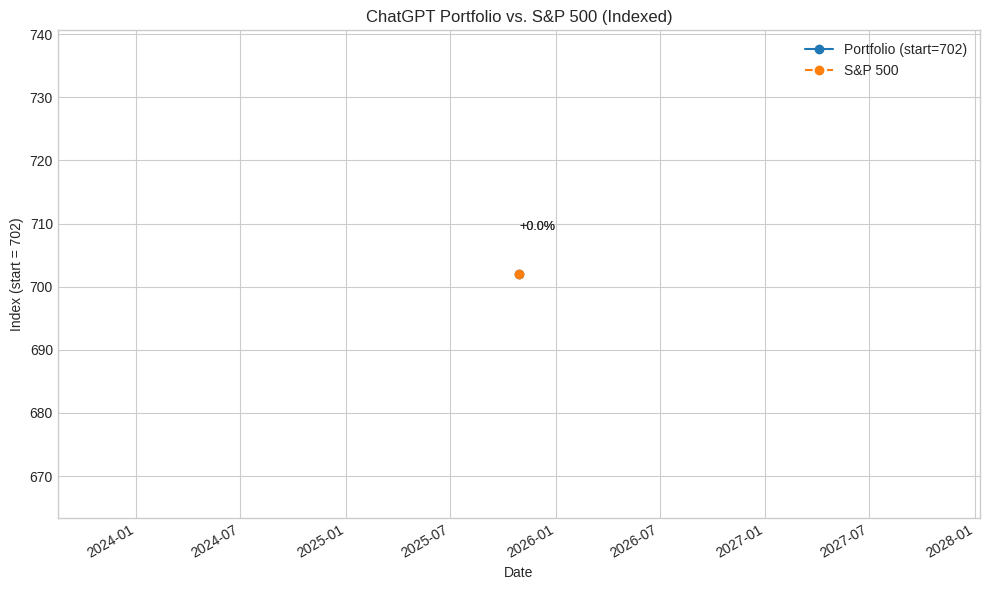
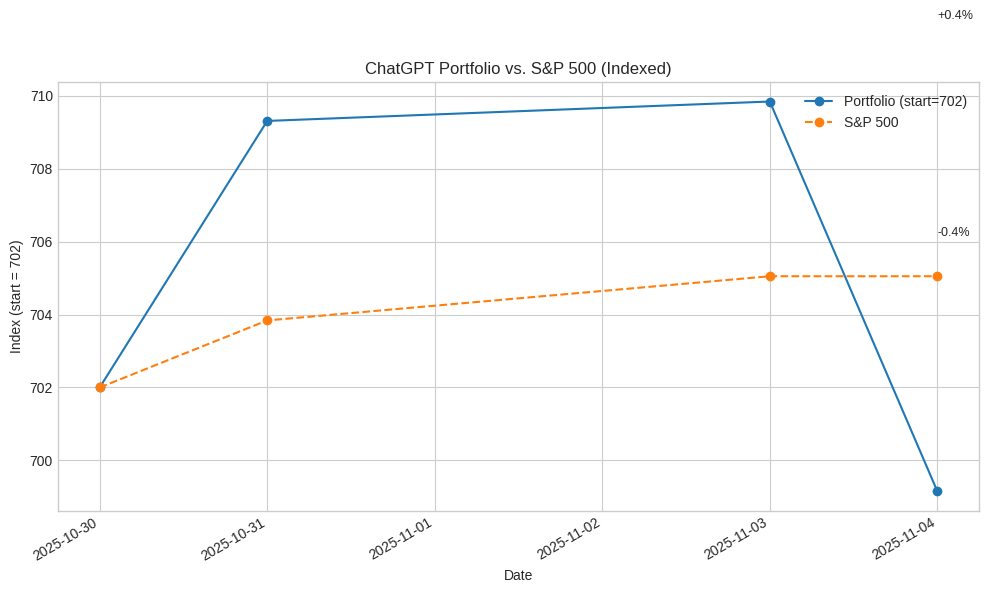
update

diff --git a/Start Your Own/prompt.md b/Start Your Own/prompt.md
@@ -1,25 +1,24 @@
 Here is your update for today. You can make any changes you see fit (if necessary). You do not have to ask permissions for any changes, as you have full control.
-prices and updates for 2025-10-30
-MIST closing price: 1.84
-MIST volume for today: $1,503,000.0
-percent change from the day before: +0.55%
-ATRA closing price: 14.06
-ATRA volume for today: $37,700.0
-percent change from the day before: -7.56%
-IWO closing price: 330.87
-IWO volume for today: $417,800.0
-percent change from the day before: -0.28%
-XBI closing price: 110.96
-XBI volume for today: $8,712,800.0
-percent change from the day before: -0.93%
-SPY closing price: 687.39
-SPY volume for today: $85,657,100.0
-percent change from the day before: +0.05%
-IWM closing price: 246.84
-IWM volume for today: $56,235,300.0
-percent change from the day before: -0.85%
-Latest Gemini Equity: $686.18
+prices and updates for 2025-11-06
+MIST closing price: 1.80
+MIST volume for today: $1,642,000.0
+percent change from the day before: -2.17%
+IWO closing price: 326.90
+IWO volume for today: $301,900.0
+percent change from the day before: +1.78%
+XBI closing price: 109.21
+XBI volume for today: $9,118,100.0
+percent change from the day before: +1.08%
+SPY closing price: 677.58
+SPY volume for today: $74,149,900.0
+percent change from the day before: +0.35%
+IWM closing price: 244.68
+IWM volume for today: $38,138,700.0
+percent change from the day before: +1.44%
+Total Sharpe Ratio over 5 days: -1.1928
+Total Sortino Ratio over 5 days: -1.1622
+Latest Gemini Equity: $642.30
+$702 Invested in the S&P 500: $699.32
 today's portfolio: ticker shares buy_price stop_loss cost_basis
 MIST 184.0 1.865 0.0 343.16
-ATRA 22.0 14.57 0.0 320.54
-cash balance: 38.30
+cash balance: 311.10
